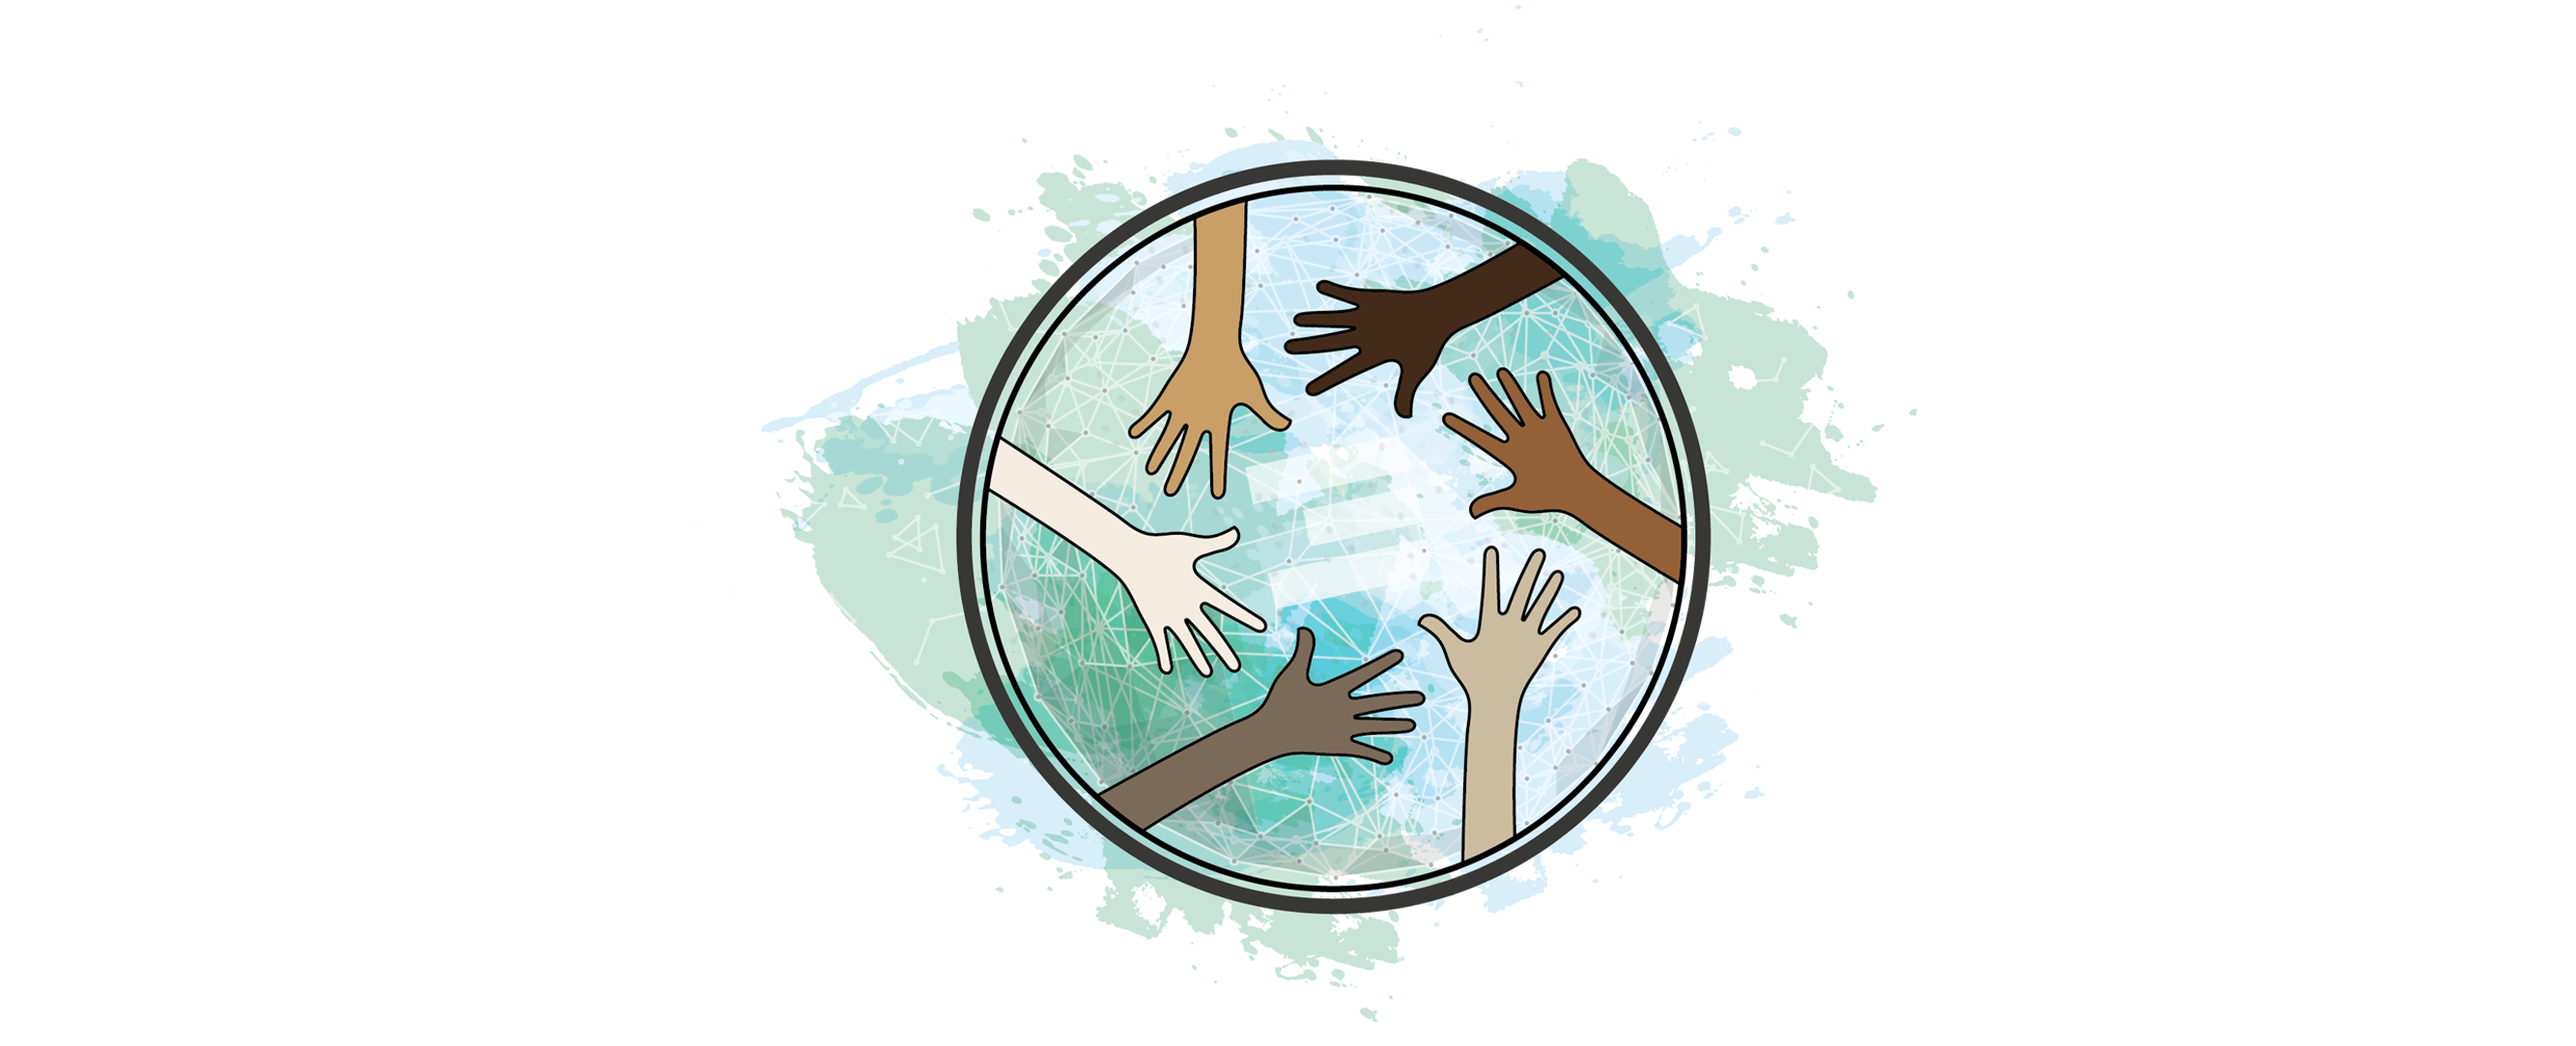
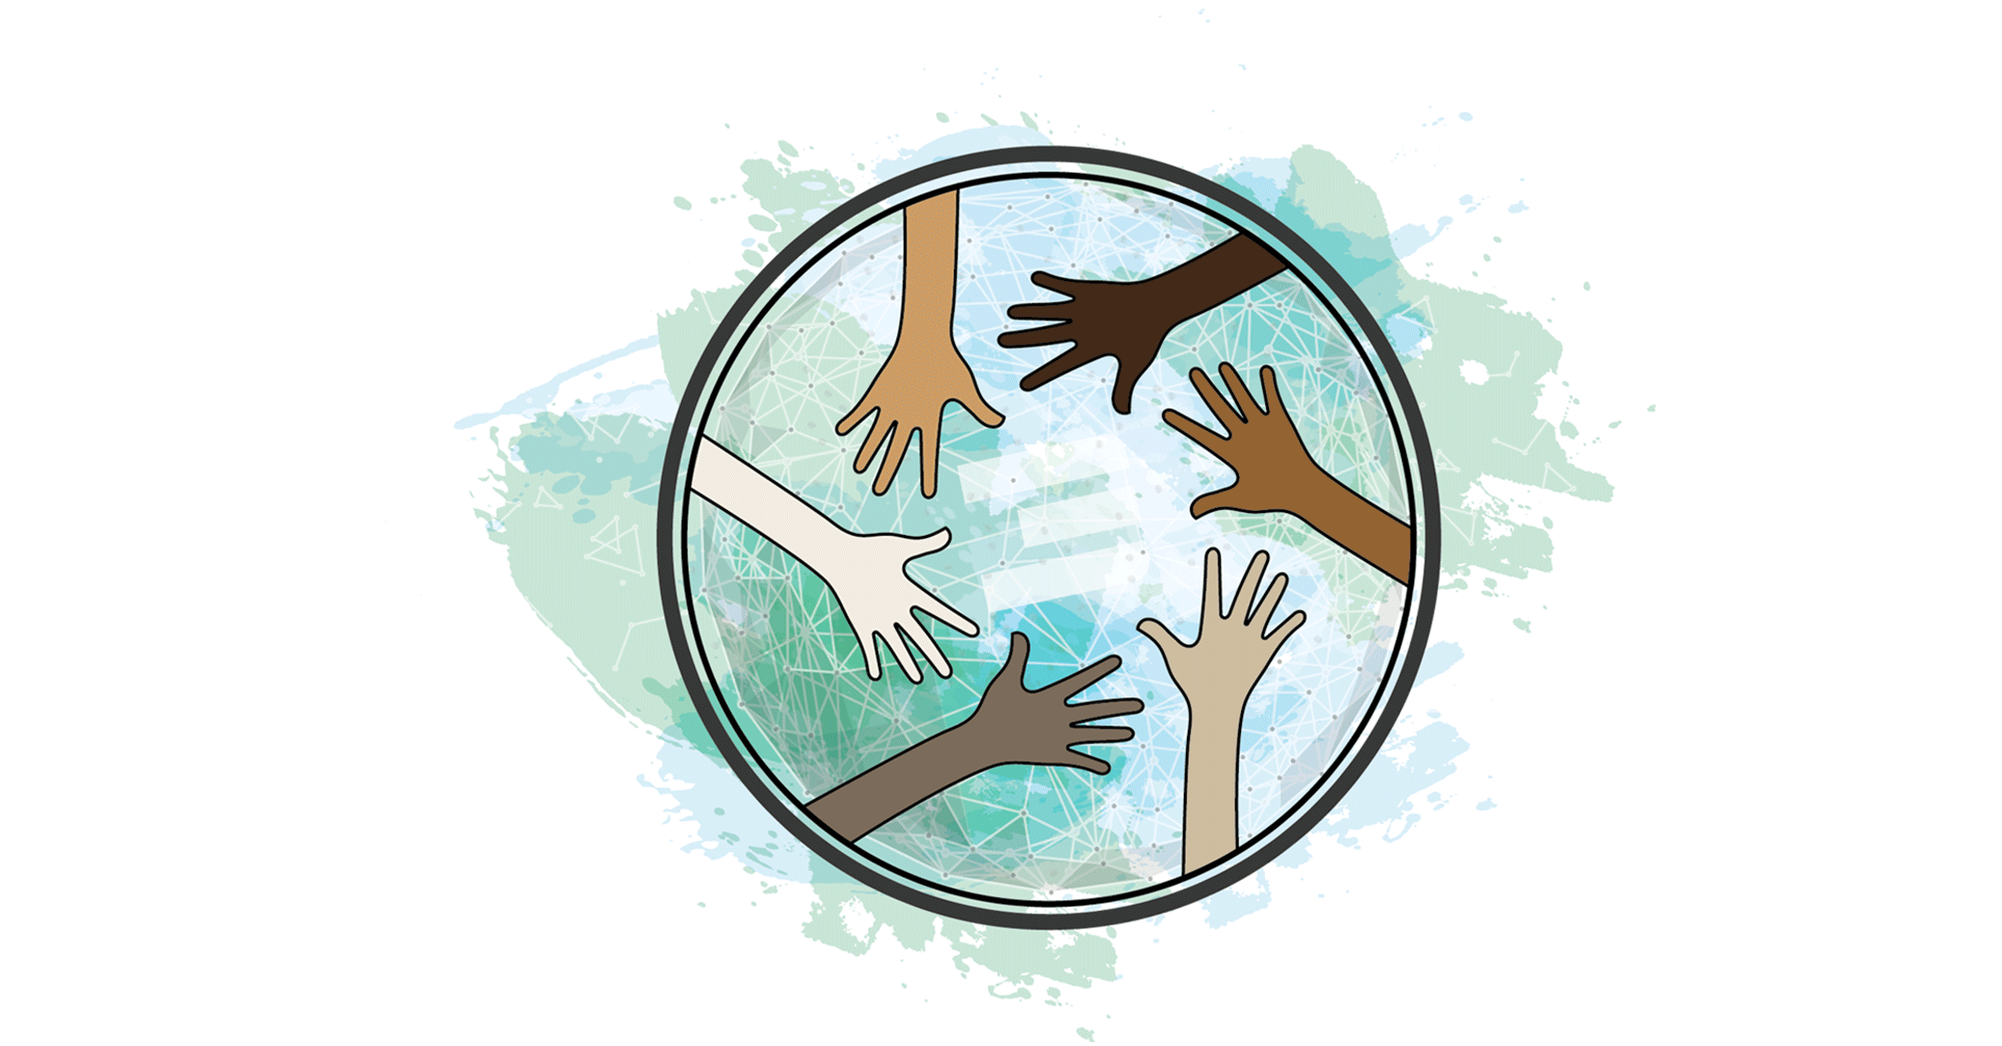
back to white

Changed region(s): [[0.2161, 0.0914, 0.8027, 1.0]]

diff --git a/src/frontend/public/assets/css/custom.css b/src/frontend/public/assets/css/custom.css
@@ -109,7 +109,7 @@ body.single #footer {
 }
 
 body {
-  background: #e3fff6 !important;
+  background: #fff !important;
 }
 
 .user a img {
@@ -196,7 +196,7 @@ body {
 
 .post_home {
     padding: 3em 14em 1em 14em;
-    background: #e3fff6;
+    background: #fff;
     /* border: solid 1px rgba(160, 160, 160, 0.3); */
     margin: 0 0 3em 0;
     position: relative;
@@ -307,7 +307,7 @@ body {
     height: 100%;
     width: 100%;
     float: left;
-    background: #e3fff6 !important;
+    background: #fff !important;
     padding: 0 20px;
     color: #fff;
 }
